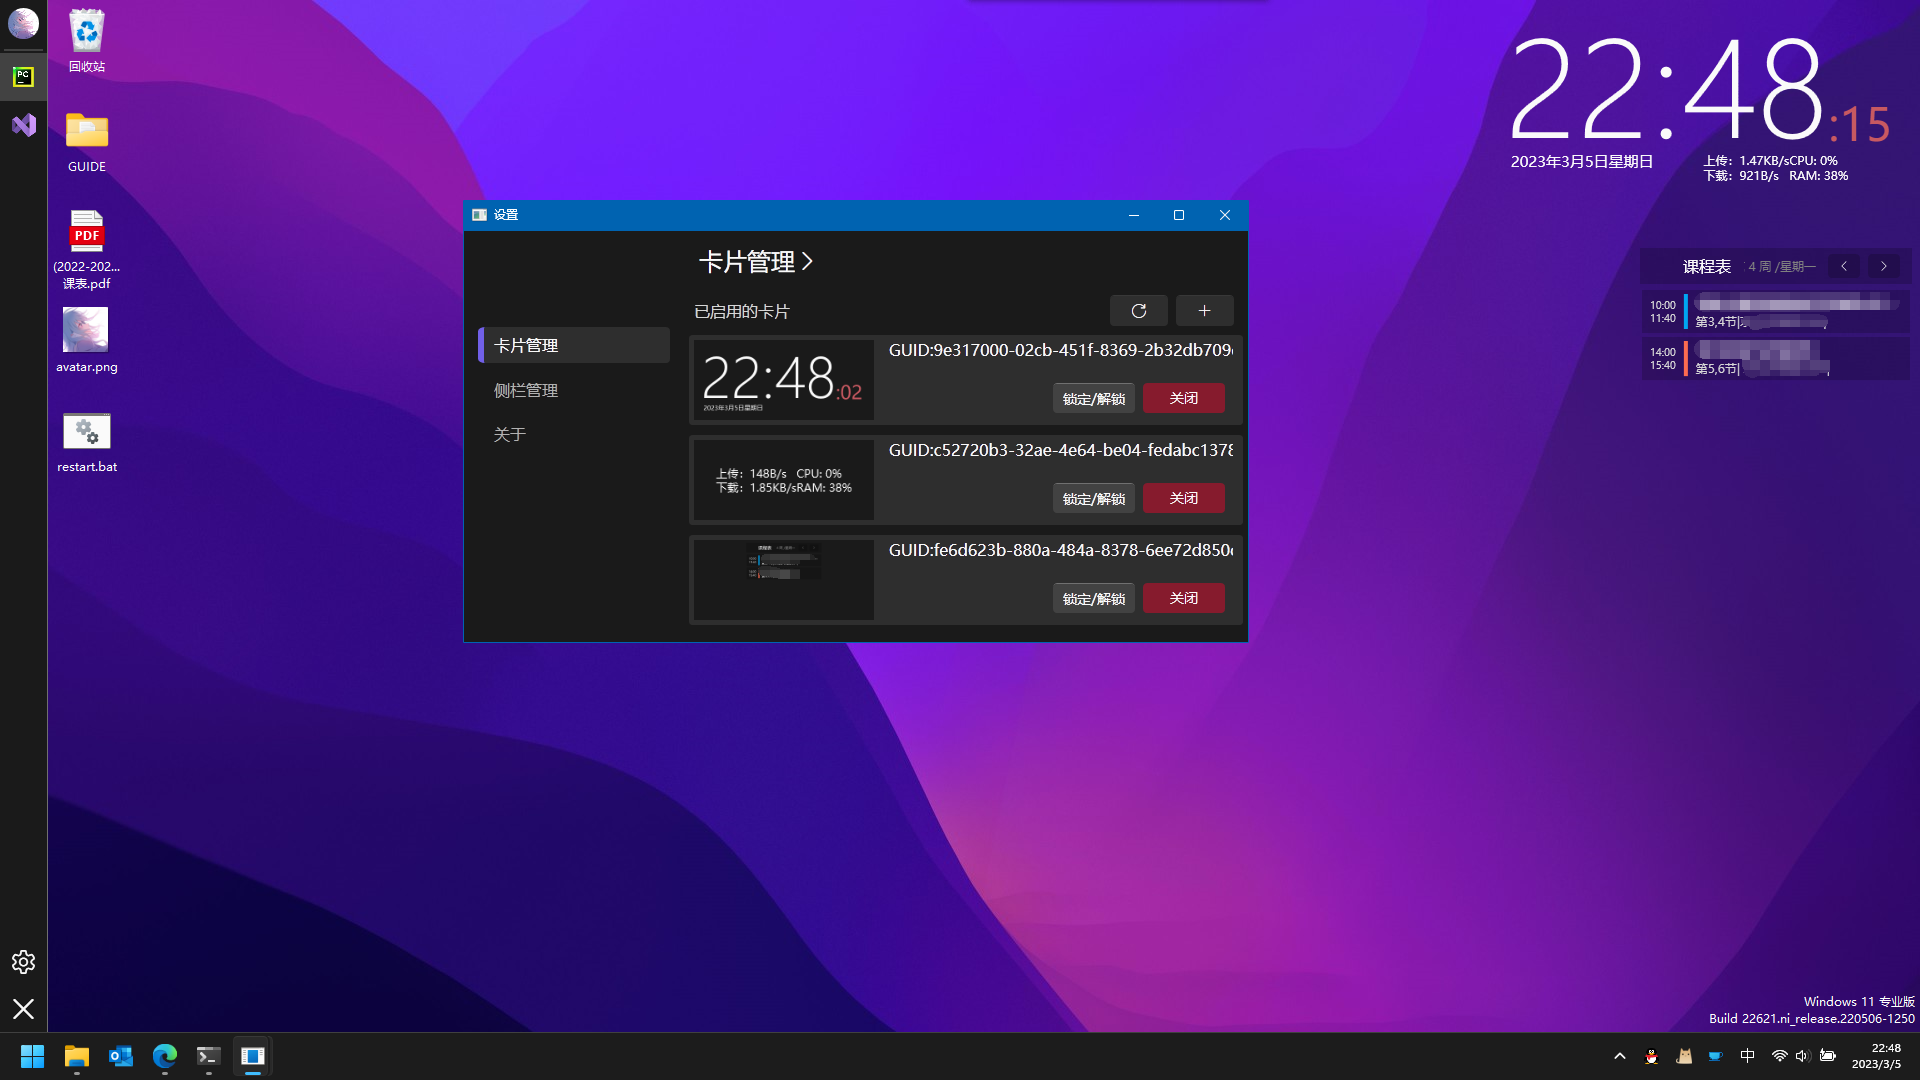
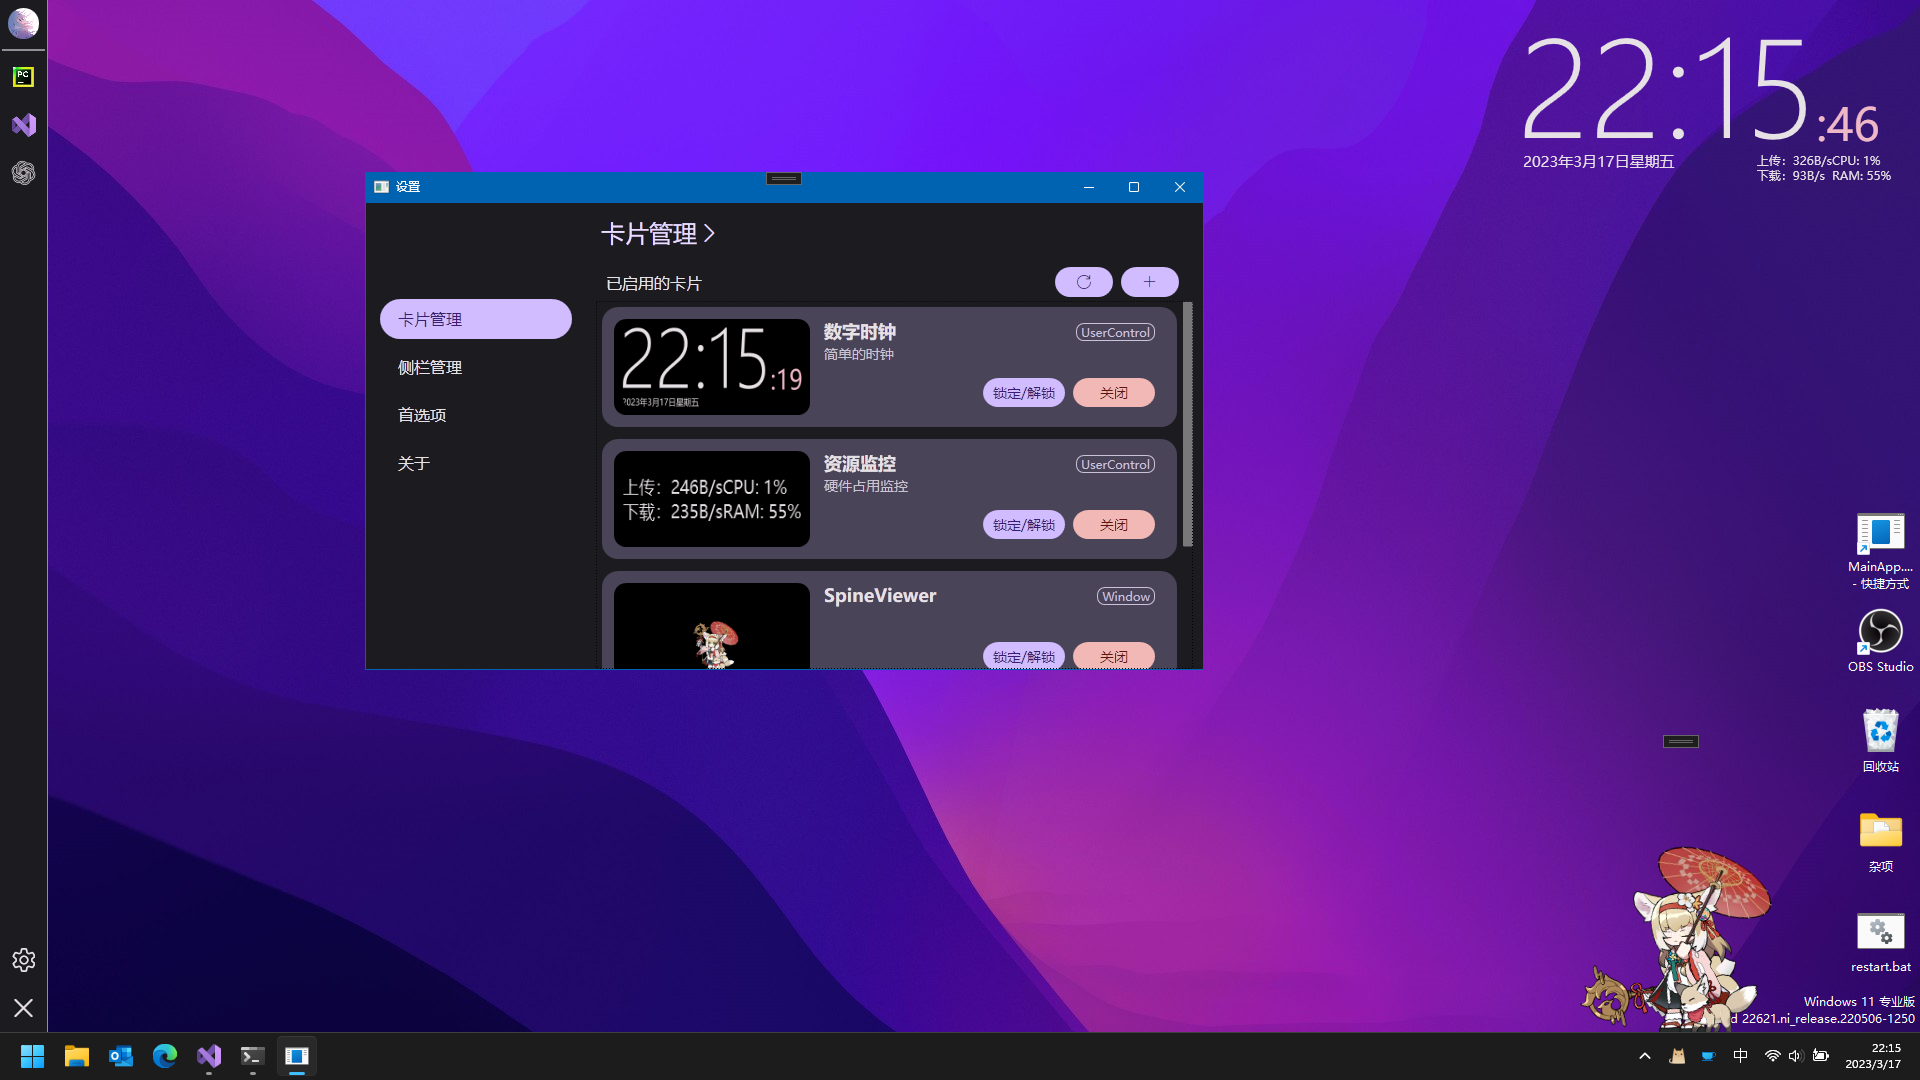
样式修改

diff --git a/MainApp/View/Setting/CardManage.xaml b/MainApp/View/Setting/CardManage.xaml
@@ -21,7 +21,7 @@
         <cv:UIElement2RenderBitmap x:Key="UIElement2RenderBitmap" />
     </Page.Resources>
 
-    <Grid x:Name="gd" Margin="8,0">
+    <Grid x:Name="gd" Margin="10,0">
 
 
         <Grid Name="enabledCardPanel">
@@ -63,14 +63,12 @@
                 Grid.Row="1"
                 HorizontalContentAlignment="Stretch"
                 VerticalContentAlignment="Stretch"
-                pu:ListBoxHelper.ItemsBackground="{DynamicResource SurfaceBrush}"
-                pu:ListBoxHelper.ItemsBorderBrush="{DynamicResource OutlineBrush}"
-                pu:ListBoxHelper.ItemsBorderThickness="2"
+                pu:ListBoxHelper.ItemsBackground="{DynamicResource SecondaryContainerBrush}"
                 pu:ListBoxHelper.ItemsCornerRadius="16"
-                pu:ListBoxHelper.ItemsHoverBackground="{DynamicResource SurfaceBrush}"
+                pu:ListBoxHelper.ItemsHoverBackground="{DynamicResource SecondaryContainerBrush}"
                 pu:ListBoxHelper.ItemsMargin="6"
-                pu:ListBoxHelper.ItemsPadding="0"
-                pu:ListBoxHelper.ItemsSelectedBackground="{DynamicResource SurfaceBrush}"
+                pu:ListBoxHelper.ItemsPadding="8"
+                pu:ListBoxHelper.ItemsSelectedBackground="{DynamicResource SecondaryContainerBrush}"
                 Background="Transparent"
                 BorderThickness="0"
                 ItemsSource="{Binding CardInstances}">
@@ -80,7 +78,7 @@
                             <TextBlock
                                 Margin="0,0,0,8"
                                 FontSize="18"
-                                Foreground="{DynamicResource OnSurfaceVariantBrush}"
+                                Foreground="{DynamicResource PrimaryBrush}"
                                 Text="还没有启用桌面卡片喔" />
                             <Button
                                 Padding="0,10"
@@ -125,7 +123,7 @@
                                                 FontSize="18"
                                                 FontWeight="Bold"
                                                 Foreground="{DynamicResource OnSurfaceBrush}"
-                                                Text="{Binding CI.Name}" />
+                                                Text="{Binding Info.Name}" />
                                             <Border
                                                 Margin="4"
                                                 Padding="4,0"
@@ -137,7 +135,7 @@
                                                     VerticalAlignment="Center"
                                                     FontSize="12"
                                                     Foreground="{DynamicResource SecondaryBrush}"
-                                                    Text="{Binding CI.CardType}" />
+                                                    Text="{Binding Info.CardType}" />
 
                                             </Border>
                                         </Grid>
@@ -145,7 +143,7 @@
                                         <TextBlock
                                             FontSize="14"
                                             Foreground="{DynamicResource OnSurfaceVariantBrush}"
-                                            Text="{Binding CI.Description}" />
+                                            Text="{Binding Info.Description}" />
 
                                     </StackPanel>
 

diff --git a/Plugins/MyDesktopCards/View/AISchedule.xaml b/Plugins/MyDesktopCards/View/AISchedule.xaml
@@ -19,7 +19,10 @@
             </ResourceDictionary.MergedDictionaries>
         </ResourceDictionary>
     </UserControl.Resources>
-    <Border Background="{DynamicResource SurfaceBrush}" CornerRadius="12">
+    <Border
+        Margin="10"
+        Background="{DynamicResource SurfaceBrush}"
+        CornerRadius="12">
 
         <Grid>
             <Grid>

diff --git a/MainApp/View/Setting/SideBarManage.xaml b/MainApp/View/Setting/SideBarManage.xaml
@@ -13,7 +13,7 @@
     d:DesignWidth="800"
     mc:Ignorable="d">
 
-    <Grid Margin="0,0,10,0">
+    <Grid Margin="10,0">
         <ItemsControl ItemsSource="{Binding InstalledItems}">
             <ItemsControl.ItemTemplate>
                 <DataTemplate>

diff --git a/PluginSDK/Styles/index.xaml b/PluginSDK/Styles/index.xaml
@@ -7,7 +7,7 @@
 
         <!--<st:Theme Type="Light" />-->
 
-        <ResourceDictionary Source="NewBrush/DarkBrush.xaml" />
+        <!--<ResourceDictionary Source="NewBrush/DarkBrush.xaml" />-->
 
         <ResourceDictionary>
 

diff --git a/README.md b/README.md
@@ -1,8 +1,18 @@
 # MyWidget
 Windows桌面小部件
 
+## Features
++ 可扩展的
++ 低占用的
 
 ## Preview
 ![img](/docs/images/preview.png)
 
-![img](/docs/images/spine.png)
+![img](/docs/images/setting.png)
+
+![img](/docs/images/theme.png)
+
+## How to use
+
+
+# Develop
